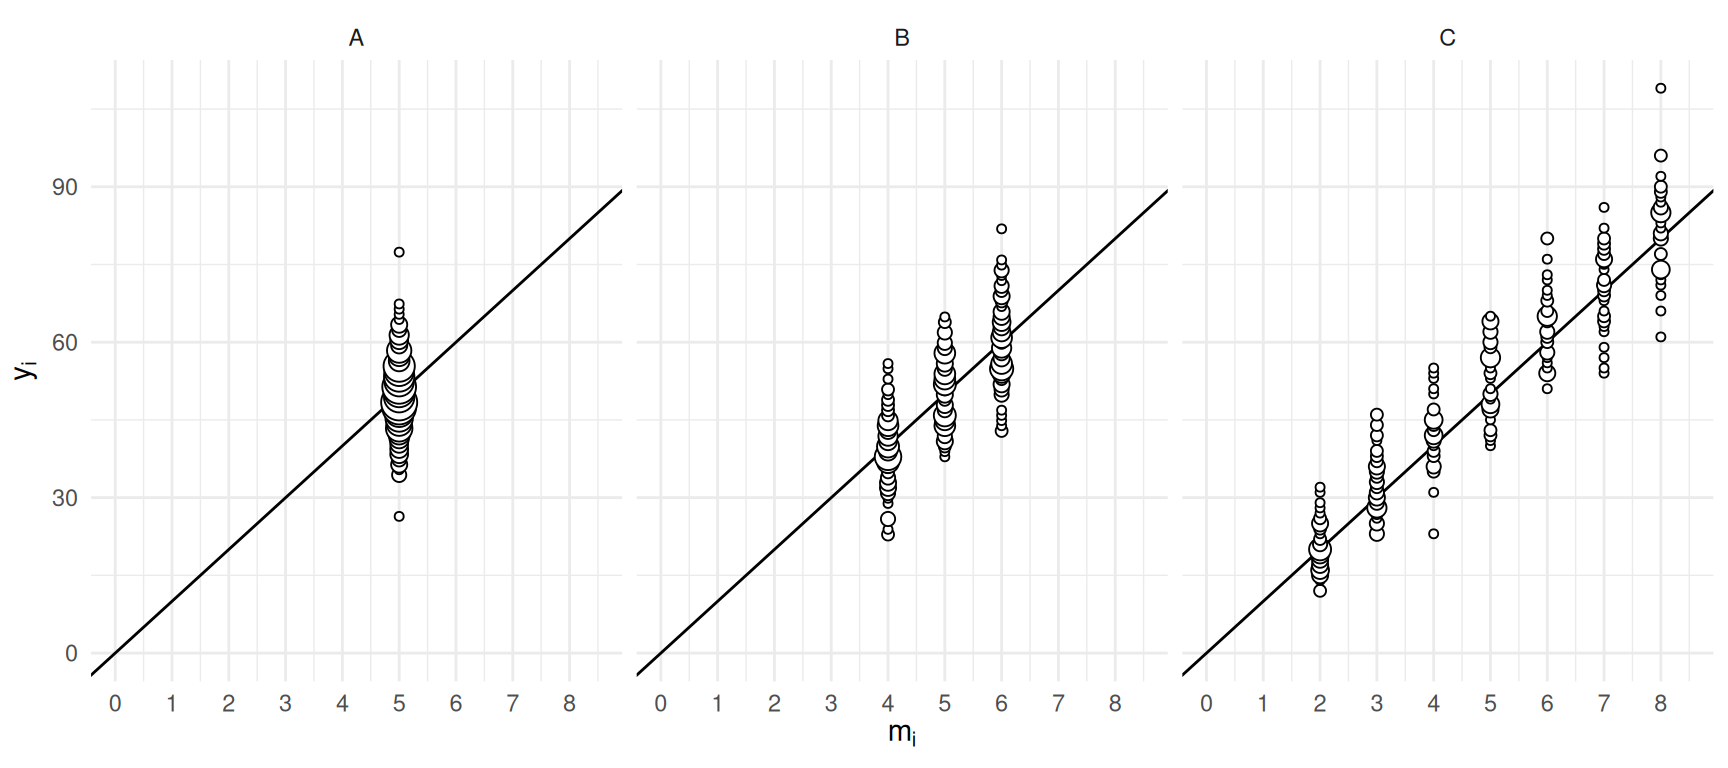
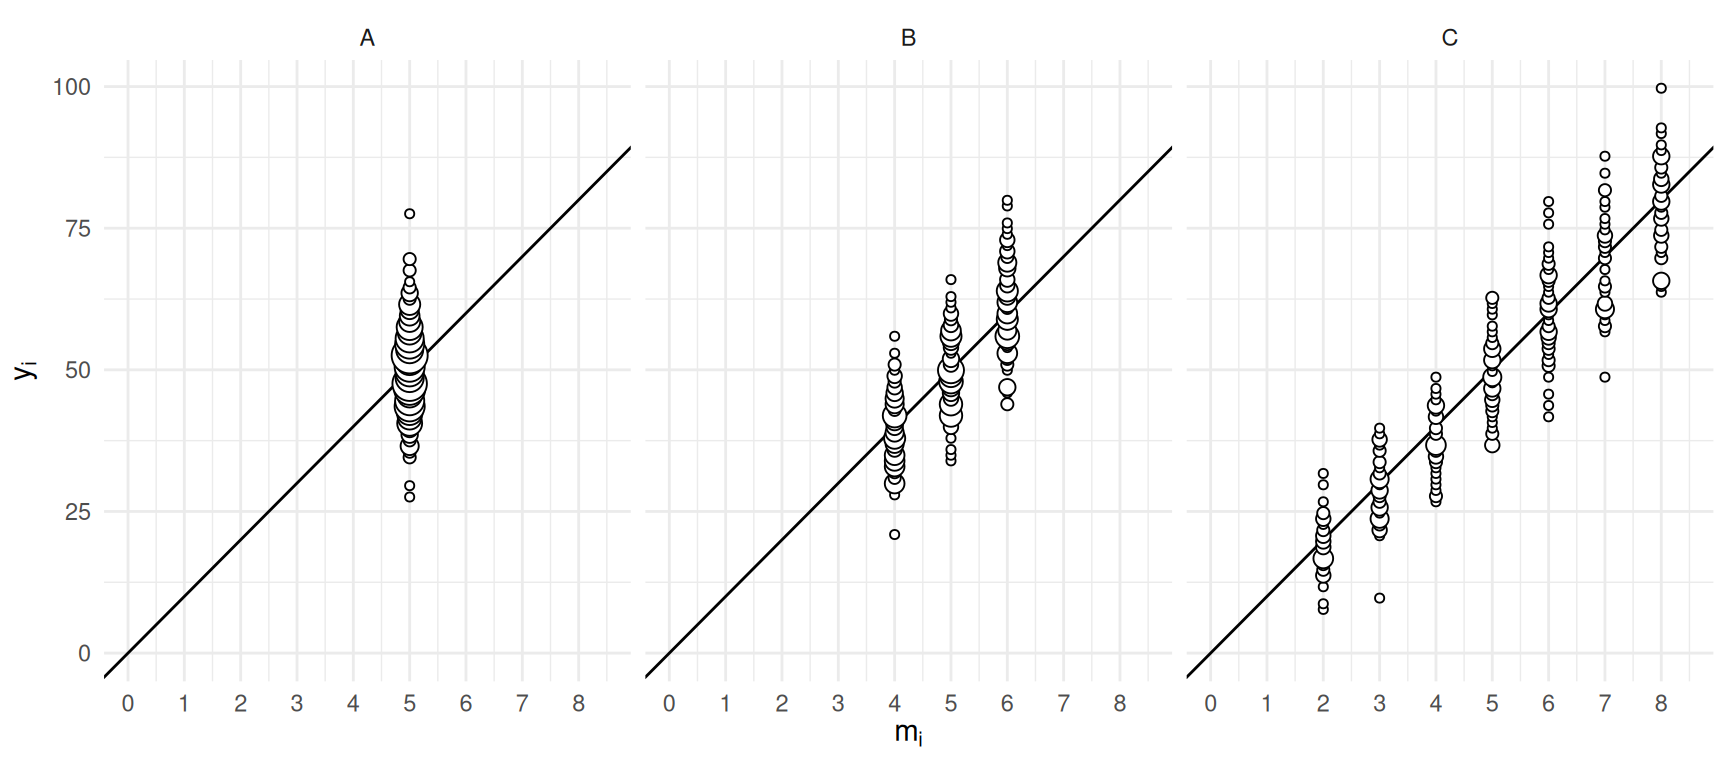
lecture 10/15

diff --git a/lecture-10-15-2025.html b/lecture-10-15-2025.html
@@ -426,10 +426,10 @@ A
 Ratio Estimator
 </td>
 <td style="text-align:center;">
-154835.2
+193067.1
 </td>
 <td style="text-align:center;">
-786.9820
+878.7881
 </td>
 </tr>
 <tr>
@@ -440,10 +440,10 @@ A
 Unbiased Estimator
 </td>
 <td style="text-align:center;">
-154835.2
+193067.1
 </td>
 <td style="text-align:center;">
-786.9820
+878.7881
 </td>
 </tr>
 <tr>
@@ -454,10 +454,10 @@ B
 Ratio Estimator
 </td>
 <td style="text-align:center;">
-162948.7
+186297.6
 </td>
 <td style="text-align:center;">
-807.3381
+863.2442
 </td>
 </tr>
 <tr>
@@ -468,10 +468,10 @@ B
 Unbiased Estimator
 </td>
 <td style="text-align:center;">
-436189.3
+443889.4
 </td>
 <td style="text-align:center;">
-1320.8926
+1332.5005
 </td>
 </tr>
 <tr>
@@ -482,10 +482,10 @@ C
 Ratio Estimator
 </td>
 <td style="text-align:center;">
-161688.3
+168006.0
 </td>
 <td style="text-align:center;">
-804.2096
+819.7707
 </td>
 </tr>
 <tr>
@@ -496,10 +496,10 @@ C
 Unbiased Estimator
 </td>
 <td style="text-align:center;">
-1575884.0
+1449376.9
 </td>
 <td style="text-align:center;">
-2510.6843
+2407.8014
 </td>
 </tr>
 </tbody>

diff --git a/lectures.html b/lectures.html
@@ -333,7 +333,9 @@ the second examination is now available.</p>
 <p>Mon, Oct 13. <a href="lecture-10-13-2025.html">Introduction to
 cluster sampling</a>. A <a href="hw-cluster.html">homework
 assignment</a> concerning cluster sampling is now available.</p>
-<p>Wed, Oct 15.</p>
+<p>Wed, Oct 15. <a href="lecture-10-15-2025.html">Cluster sampling —
+continued, estimation of <span class="math inline">\(\tau\)</span>, the
+design effect for cluster sampling</a>.</p>
 <p>Fri, Oct 17.</p>
 <hr />
 <p>Mon, Oct 20.</p>
